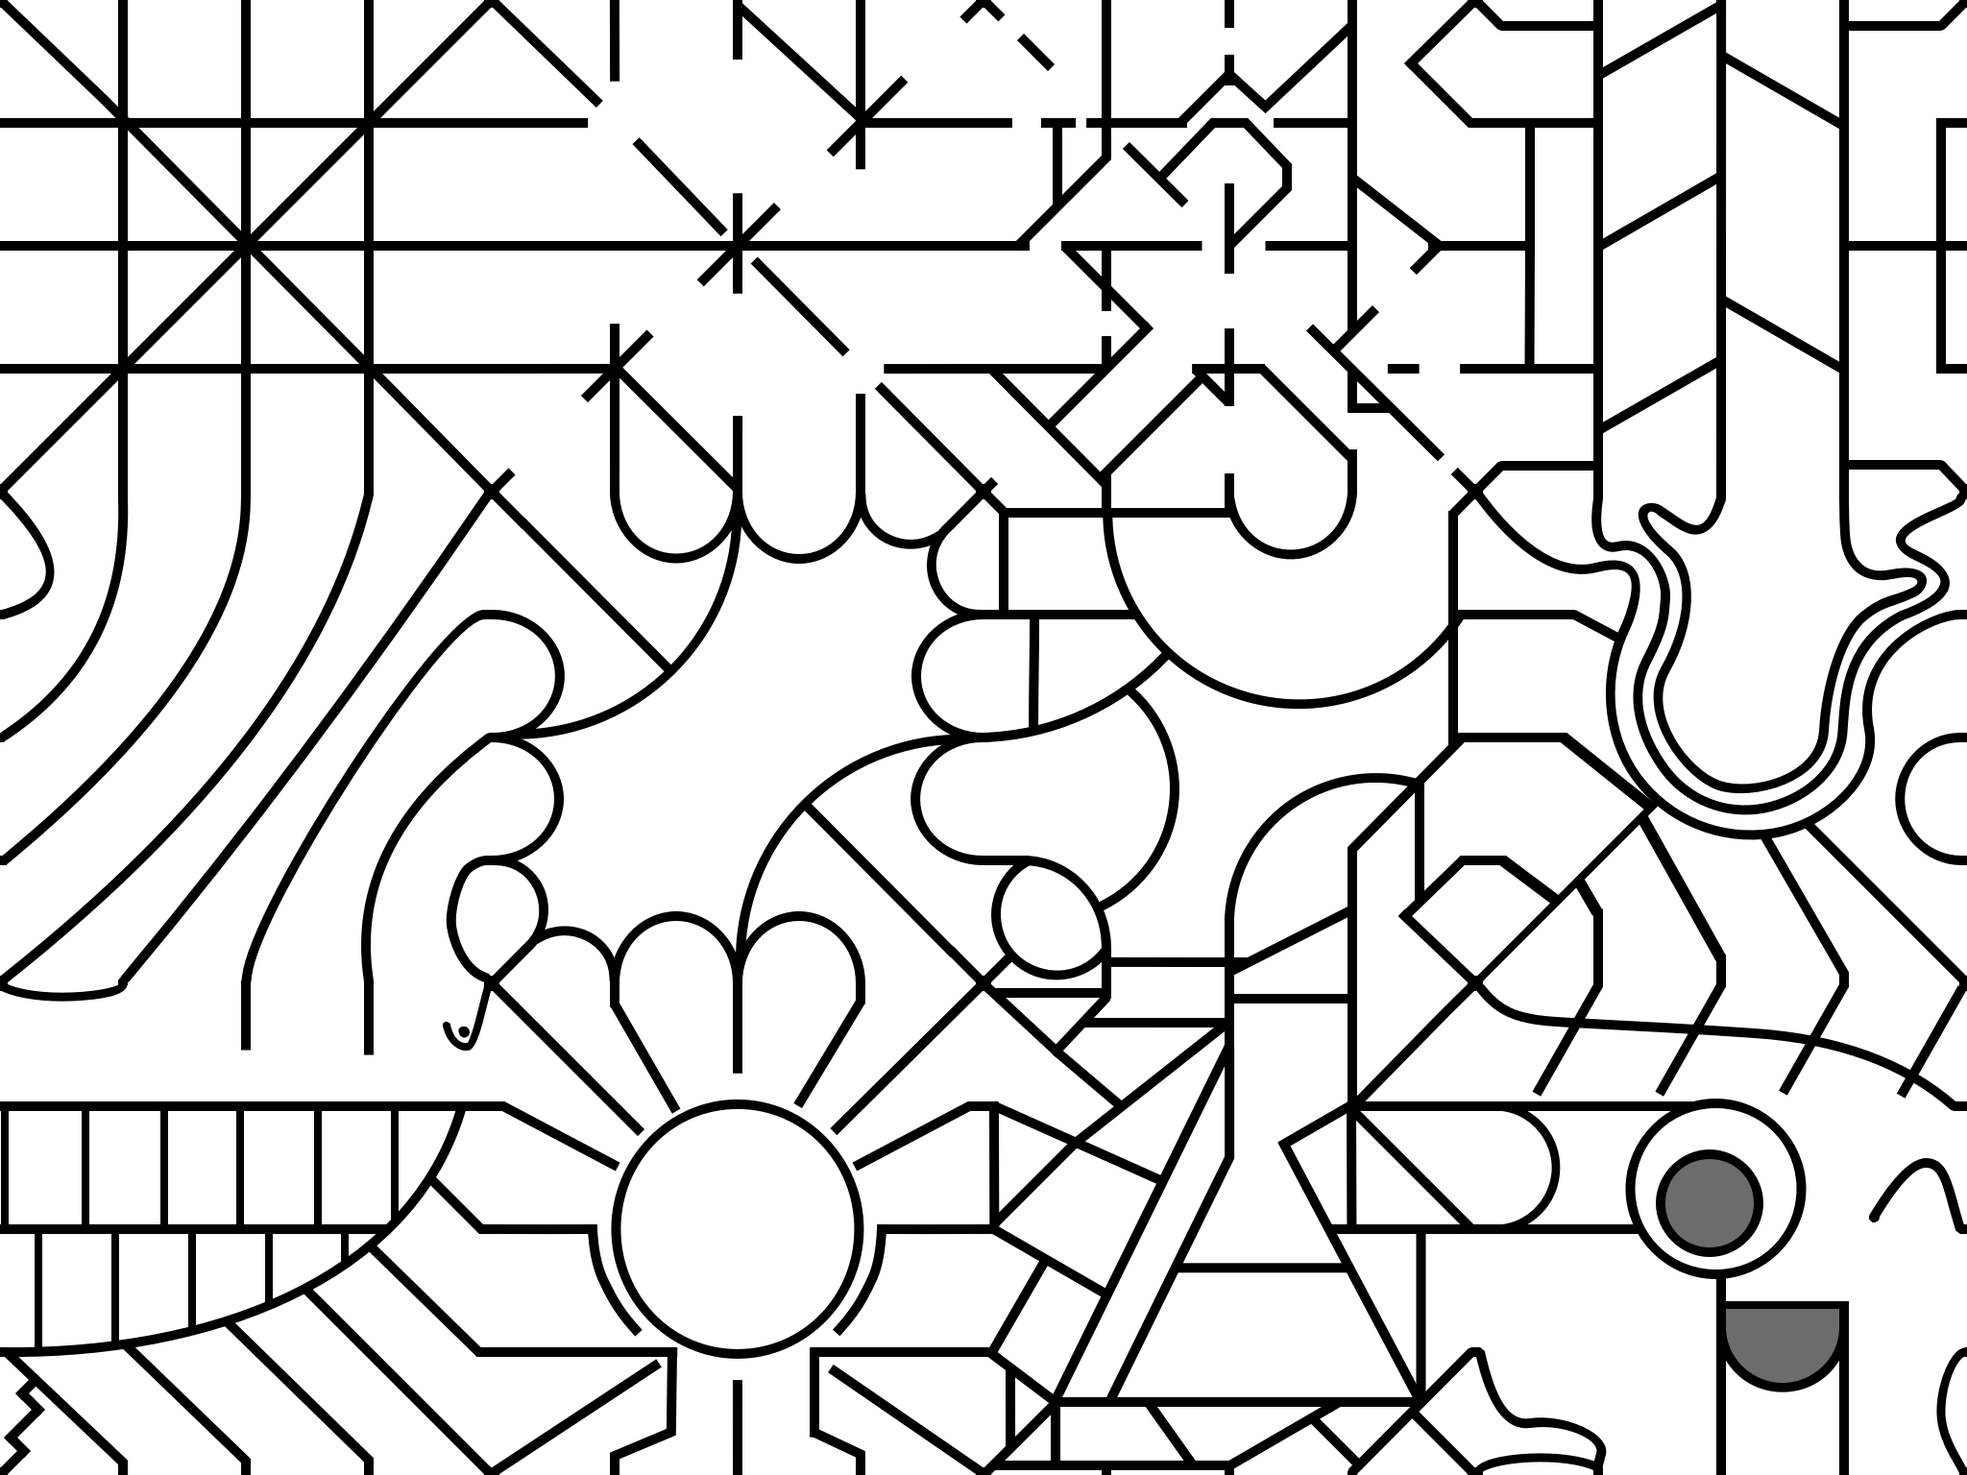
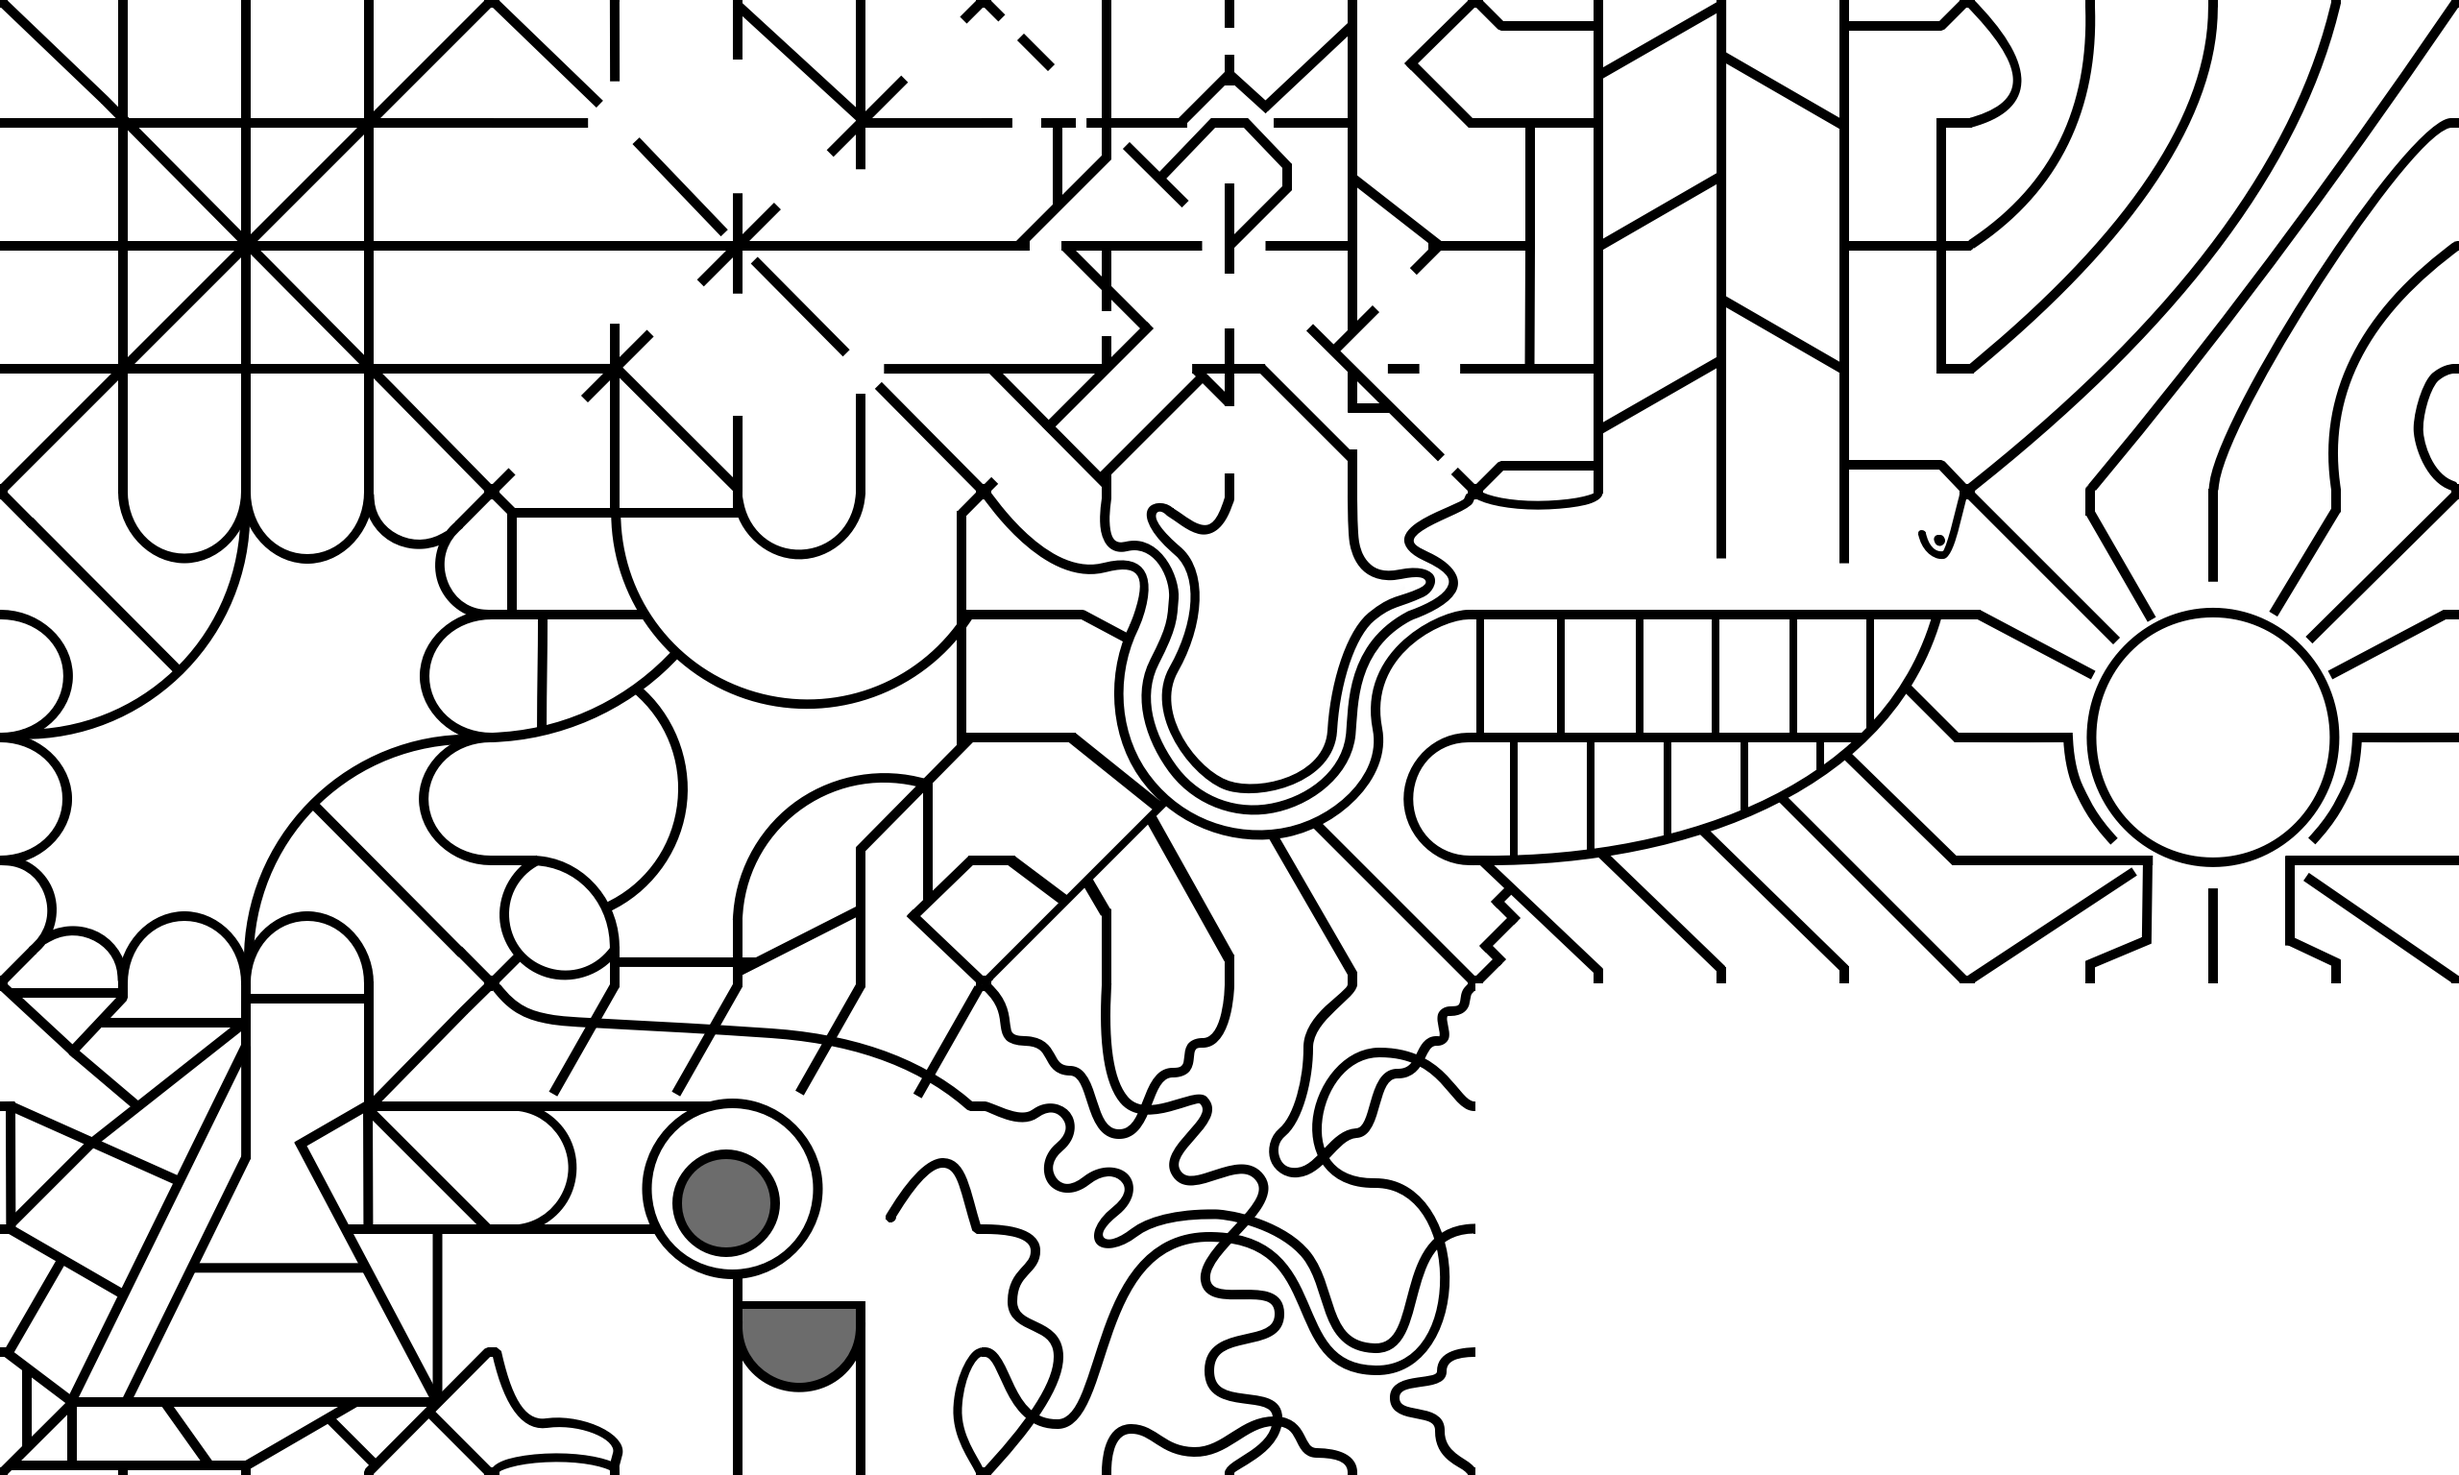
Added 13th tile. added direction for drag movement, some ui changes

Changed region(s): [[0.0, 0.0, 1.0, 1.0], [0.9688, 0.9062, 1.0, 1.0], [0.2812, 0.125, 0.3125, 0.1875]]

diff --git a/src/app/constants/constants.component.ts b/src/app/constants/constants.component.ts
@@ -4,10 +4,10 @@ import { inject } from '@angular/core';
 export const TilesetSrc = process.env['NODE_ENV']==="production" ? "/TilesetViewer/DoodleTilemap.png" : "/DoodleTilemap.png"
 export const TilePxSize = 512;
 export const TilesetRows = 3;
-export const TilesetCols = 4;
+export const TilesetCols = 5;
 export const TilesetPxWidth = TilePxSize * TilesetCols;
 export const TilesetPxHeight = TilePxSize * TilesetRows;
-export const TilesetOptions = [...Array(12).keys()]; //From 0-(N-1)
+export const TilesetOptions = [...Array(13).keys()]; //From 0-(N-1)
 const directions = ["", "right", "back", "left"]
 
 export class utilConstants {

diff --git a/src/app/app.component.scss b/src/app/app.component.scss
@@ -95,20 +95,23 @@
   padding: 2px 40px;
   width: fit-content;
   align-items: center;
-  justify-content: center;
   border-radius: 100px;
   transition: opacity 1.25s;
   font-family: "Franklin Gothic Medium", "Arial Narrow", Arial, sans-serif;
   touch-action: inherit;
   h1 {
-    font-size: 8vw;
+    text-align: center;
+    font-size: 5rem;
     color: var(--text-color);
     touch-action: inherit;
+    margin: 0px;
   }
   p {
-    font-size: 3vw;
+    text-align: center;
+    font-size: 3rem;
     color: var(--text-color);  
     touch-action: inherit;
+    margin-bottom: 0px;
   }
 }
 

diff --git a/src/app/app.component.html b/src/app/app.component.html
@@ -5,6 +5,7 @@
       <h1 class="pxOutline twoPxOutline">Tileset Viewer</h1>
       <p class="pxOutline">Tap once to make this title page dissapear</p>
       <p class="pxOutline">Tap twice to generate a new image</p>
+      <p class="pxOutline">Click and drag to move around</p>
     </div>
   </div>
 

diff --git a/src/app/app.component.ts b/src/app/app.component.ts
@@ -107,6 +107,9 @@ export class AppComponent {
   lastDragY = 0;
 
   onDragMoved(event: CdkDragMove) {
+    if (this.titleDisplayed) {
+      this.titleDisplayed = false;
+    }
     const deltaX = event.distance.x - this.lastDragX;
     const deltaY = event.distance.y - this.lastDragY;
 
